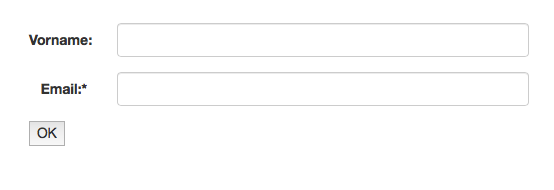
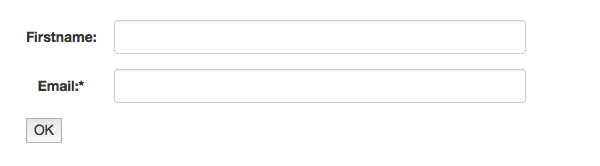
polish

diff --git a/doc/quickstart.md b/doc/quickstart.md
@@ -28,7 +28,7 @@ public class MyForm extends FormCheckerForm {
   public void init() {
     // Textfield for firstname
     add(TextInput.build("firstname")
-      .setDescription("Your Firstname"));
+      .setDescription("Firstname"));
 
     // Textfield with email validation and required
     add(TextInput.build("email")
@@ -88,6 +88,8 @@ ${fc.form}
 
 ## Go on
 
-[Read about the concepts](start.md)
+[Documentation](start.md)
+
+[Read about the concepts](concepts.md)
 
 [Read the changelog](CHANGELOG.md)

diff --git a/README.md b/README.md
@@ -3,6 +3,8 @@ HTML Forms in Java made easy.
 
 [Quickstart](doc/quickstart.md)
 
+[Documentation](doc/start.md)
+
 [See changelog](doc/CHANGELOG.md)
 
 [![Build Status](https://travis-ci.org/jochen777/jFormchecker.svg?branch=master)](https://travis-ci.org/jochen777/jFormchecker)
